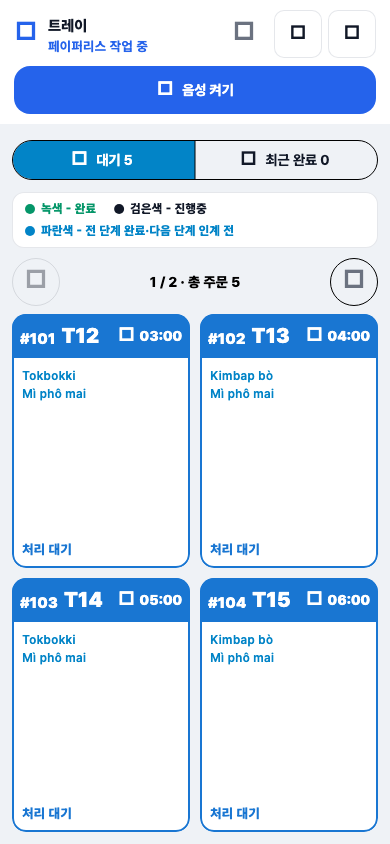
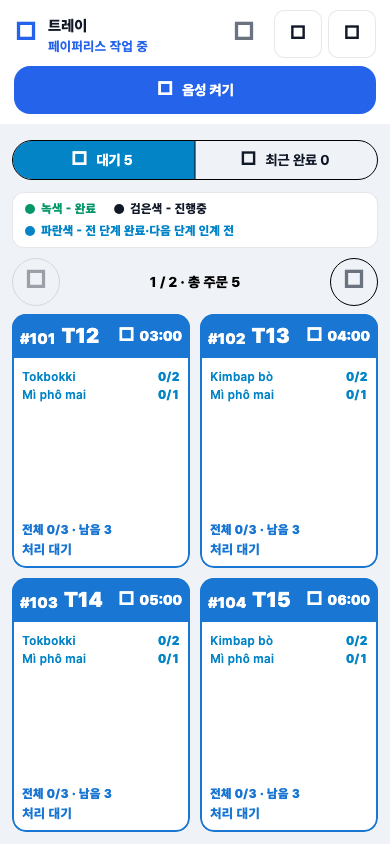
Show KDS item and order quantity progress

diff --git a/lib/features/emergency_fulfillment/emergency_fulfillment_screen.dart b/lib/features/emergency_fulfillment/emergency_fulfillment_screen.dart
@@ -1181,6 +1181,18 @@ class _EmergencyOrderCard extends StatelessWidget {
   @override
   Widget build(BuildContext context) {
     final visibleItems = order.displayItemsAt(stationType);
+    final completedQuantity = visibleItems.fold<int>(
+      0,
+      (total, item) => total + (item.completedQuantity ?? 0),
+    );
+    final totalQuantity = visibleItems.fold<int>(
+      0,
+      (total, item) => total + (item.totalQuantity ?? 0),
+    );
+    final totalProgress = copy.totalQuantityProgress(
+      completedQuantity,
+      totalQuantity,
+    );
     final stationBatches = order.stationBatchesAt(stationType);
     final supplementalBatches = stationBatches
         .where((batch) => batch.isSupplemental)
@@ -1208,9 +1220,10 @@ class _EmergencyOrderCard extends StatelessWidget {
         : order.tableNumber;
     final semantics = order.isDelivery
         ? '${copy.order} ${order.queueNo}, ${copy.delivery}, '
-              '${visibleItems.length} ${copy.items}'
+              '${visibleItems.length} ${copy.items}, $totalProgress'
         : '${copy.order} ${order.queueNo}, ${copy.table} ${order.tableNumber}, '
-              '${order.floorLabel}, ${visibleItems.length} ${copy.items}';
+              '${order.floorLabel}, ${visibleItems.length} ${copy.items}, '
+              '$totalProgress';
 
     return Semantics(
       button: true,
@@ -1347,6 +1360,23 @@ class _EmergencyOrderCard extends StatelessWidget {
                       ],
                       const SizedBox(height: 4),
                       Text(
+                        totalProgress,
+                        key: Key(
+                          'emergency_card_total_progress_${order.orderId}',
+                        ),
+                        maxLines: 1,
+                        overflow: TextOverflow.ellipsis,
+                        style: Theme.of(context).textTheme.labelMedium
+                            ?.copyWith(
+                              color: tone,
+                              fontWeight: FontWeight.w900,
+                              fontFeatures: const [
+                                FontFeature.tabularFigures(),
+                              ],
+                            ),
+                      ),
+                      const SizedBox(height: 2),
+                      Text(
                         pending
                             ? copy.pendingSync
                             : completed
@@ -1424,24 +1454,50 @@ class _EmergencyCardMenuList extends StatelessWidget {
                     for (final item in columns[columnIndex])
                       SizedBox(
                         height: rowHeight,
-                        child: Text(
-                          item.isTakeout
-                              ? '[MANG VỀ] ${item.paperlessName}'
-                              : item.paperlessName,
-                          key: Key('emergency_card_menu_${item.id}'),
-                          maxLines: 1,
-                          overflow: TextOverflow.ellipsis,
-                          style: Theme.of(context).textTheme.labelMedium
-                              ?.copyWith(
-                                color: item.completed
-                                    ? PosColors.success
-                                    : item.readyFromPreviousStage
-                                    ? PosColors.info
-                                    : PosColors.textPrimary,
-                                fontWeight: item.completed
-                                    ? FontWeight.w800
-                                    : FontWeight.w600,
+                        child: Row(
+                          children: [
+                            Expanded(
+                              child: Text(
+                                item.isTakeout
+                                    ? '[MANG VỀ] ${item.paperlessName}'
+                                    : item.paperlessName,
+                                key: Key('emergency_card_menu_${item.id}'),
+                                maxLines: 1,
+                                overflow: TextOverflow.ellipsis,
+                                style: Theme.of(context).textTheme.labelMedium
+                                    ?.copyWith(
+                                      color: item.completed
+                                          ? PosColors.success
+                                          : item.readyFromPreviousStage
+                                          ? PosColors.info
+                                          : PosColors.textPrimary,
+                                      fontWeight: item.completed
+                                          ? FontWeight.w800
+                                          : FontWeight.w600,
+                                    ),
                               ),
+                            ),
+                            if (item.completedQuantity != null &&
+                                item.totalQuantity != null) ...[
+                              const SizedBox(width: 4),
+                              Text(
+                                '${item.completedQuantity}/${item.totalQuantity}',
+                                key: Key('emergency_card_progress_${item.id}'),
+                                style: Theme.of(context).textTheme.labelMedium
+                                    ?.copyWith(
+                                      color: item.completed
+                                          ? PosColors.success
+                                          : item.readyFromPreviousStage
+                                          ? PosColors.info
+                                          : PosColors.textPrimary,
+                                      fontWeight: FontWeight.w900,
+                                      fontFeatures: const [
+                                        FontFeature.tabularFigures(),
+                                      ],
+                                    ),
+                              ),
+                            ],
+                          ],
                         ),
                       ),
                   ],
@@ -2402,6 +2458,15 @@ class _EmergencyCopy {
     'Food completed by the kitchen and handed off through the tray.',
   );
   String get totalOrders => _pick('총 주문', 'Tổng đơn', 'Total');
+  String totalQuantityProgress(int completed, int total) {
+    final remaining = math.max(0, total - completed);
+    return _pick(
+      '전체 $completed/$total · 남음 $remaining',
+      'Tổng $completed/$total · Còn $remaining',
+      'Total $completed/$total · Remaining $remaining',
+    );
+  }
+
   String get previousPage => _pick('이전 페이지', 'Trang trước', 'Previous page');
   String get nextPage => _pick('다음 페이지', 'Trang sau', 'Next page');
   String get backToBoard =>

diff --git a/lib/features/emergency_fulfillment/emergency_fulfillment_provider.dart b/lib/features/emergency_fulfillment/emergency_fulfillment_provider.dart
@@ -142,6 +142,8 @@ class EmergencyFulfillmentDisplayItem {
     required this.completed,
     required this.readyFromPreviousStage,
     required this.readOnly,
+    this.completedQuantity,
+    this.totalQuantity,
     this.isTakeout = false,
     this.batchReceivedAt,
     this.stationStartedAt,
@@ -157,6 +159,8 @@ class EmergencyFulfillmentDisplayItem {
   final bool completed;
   final bool readyFromPreviousStage;
   final bool readOnly;
+  final int? completedQuantity;
+  final int? totalQuantity;
   final bool isTakeout;
   final DateTime? batchReceivedAt;
   final DateTime? stationStartedAt;
@@ -554,6 +558,19 @@ class EmergencyFulfillmentOrder {
     String componentKey(String orderItemId, String lineKey) =>
         '$orderItemId\u0000$lineKey';
 
+    (int, int) progressAt(EmergencyFulfillmentItem item) =>
+        switch (stationType) {
+          'kitchen' => (item.kitchenDoneQuantity, item.orderedQuantity),
+          'tray' => (item.trayDispatchedQuantity, item.kitchenDoneQuantity),
+          'floor' => (
+            item.floorServedQuantity,
+            item.isFloorDirect
+                ? item.orderedQuantity
+                : item.trayDispatchedQuantity,
+          ),
+          _ => (0, item.orderedQuantity),
+        };
+
     final componentsByParentAndLine = <String, EmergencyFulfillmentItem>{
       for (final item in items)
         if (item.sourceKind == 'combo_component')
@@ -577,6 +594,7 @@ class EmergencyFulfillmentOrder {
       if (referencedComponentIds.contains(item.id)) continue;
       if (item.isFloorDirect && stationType != 'floor') continue;
       if (item.comboComponents.isEmpty) {
+        final progress = progressAt(item);
         result.add(
           EmergencyFulfillmentDisplayItem(
             id: item.id,
@@ -590,6 +608,8 @@ class EmergencyFulfillmentOrder {
               stationType,
             ),
             readOnly: false,
+            completedQuantity: progress.$1,
+            totalQuantity: progress.$2,
             isTakeout: item.isTakeout,
             batchReceivedAt: item.batchReceivedAt,
             stationStartedAt: item.stationStartedAt(stationType),
@@ -609,6 +629,7 @@ class EmergencyFulfillmentOrder {
                 'combo:${component.menuItemId}',
               )];
         final statusItem = componentItem ?? item;
+        final progress = progressAt(statusItem);
         result.add(
           EmergencyFulfillmentDisplayItem(
             id: '${item.id}:combo:${component.menuItemId.isEmpty ? index : component.menuItemId}',
@@ -622,6 +643,8 @@ class EmergencyFulfillmentOrder {
               stationType,
             ),
             readOnly: componentItem == null,
+            completedQuantity: progress.$1,
+            totalQuantity: progress.$2,
             isTakeout: item.isTakeout,
             batchReceivedAt: statusItem.batchReceivedAt ?? item.batchReceivedAt,
             stationStartedAt: statusItem.stationStartedAt(stationType),

diff --git a/test/emergency_fulfillment_responsive_test.dart b/test/emergency_fulfillment_responsive_test.dart
@@ -204,6 +204,12 @@ void main() {
     );
     expect(find.byKey(const Key('emergency_order_order-1')), findsOne);
     expect(find.text('Bánh gạo cay'), findsOne);
+    expect(
+      tester
+          .widget<Text>(find.byKey(const Key('emergency_card_progress_item-1')))
+          .data,
+      '0/2',
+    );
 
     await tester.tap(find.byKey(const Key('emergency_order_order-1')));
     await tester.pump();
@@ -227,7 +233,32 @@ void main() {
   testWidgets('tablet uses eight slots and opens all kitchen menu data', (
     tester,
   ) async {
-    final fixture = _FixtureEmergencyNotifier(_activeState('kitchen'));
+    final initial = _activeState('kitchen');
+    final order = initial.orders.single;
+    final fixture = _FixtureEmergencyNotifier(
+      initial.copyWith(
+        orders: [
+          order.copyWith(
+            items: [
+              ...order.items,
+              const EmergencyFulfillmentItem(
+                id: 'item-extra',
+                orderItemId: 'order-item-extra',
+                nameKo: '김밥',
+                nameVi: 'Cơm cuộn',
+                nameEn: 'Gimbap',
+                orderedQuantity: 3,
+                kitchenDoneQuantity: 0,
+                trayReceivedQuantity: 0,
+                trayDispatchedQuantity: 0,
+                floorServedQuantity: 0,
+                needsReview: false,
+              ),
+            ],
+          ),
+        ],
+      ),
+    );
     await _pumpEmergency(
       tester,
       fixture: fixture,
@@ -239,6 +270,22 @@ void main() {
     expect(find.byKey(const Key('emergency_order_grid_8_slots')), findsOne);
     expect(find.text('#101'), findsOne);
     expect(find.text('Bánh gạo cay'), findsOne);
+    expect(
+      tester
+          .widget<Text>(
+            find.byKey(const Key('emergency_card_progress_item-extra')),
+          )
+          .data,
+      '0/3',
+    );
+    expect(
+      tester
+          .widget<Text>(
+            find.byKey(const Key('emergency_card_total_progress_order-1')),
+          )
+          .data,
+      '전체 0/5 · 남음 5',
+    );
 
     await tester.tap(find.byKey(const Key('emergency_order_order-1')));
     await tester.pump();
@@ -248,6 +295,22 @@ void main() {
     await tester.tap(find.byKey(const Key('emergency_menu_item_item-1')));
     await tester.pumpAndSettle();
     expect(fixture.recordedProgress, [('item-1', 'kitchen_done', 1)]);
+    await tester.tap(find.byKey(const Key('emergency_detail_home')));
+    await tester.pump();
+    expect(
+      tester
+          .widget<Text>(find.byKey(const Key('emergency_card_progress_item-1')))
+          .data,
+      '1/2',
+    );
+    expect(
+      tester
+          .widget<Text>(
+            find.byKey(const Key('emergency_card_total_progress_order-1')),
+          )
+          .data,
+      '전체 1/5 · 남음 4',
+    );
     expect(tester.takeException(), isNull);
   });
 
